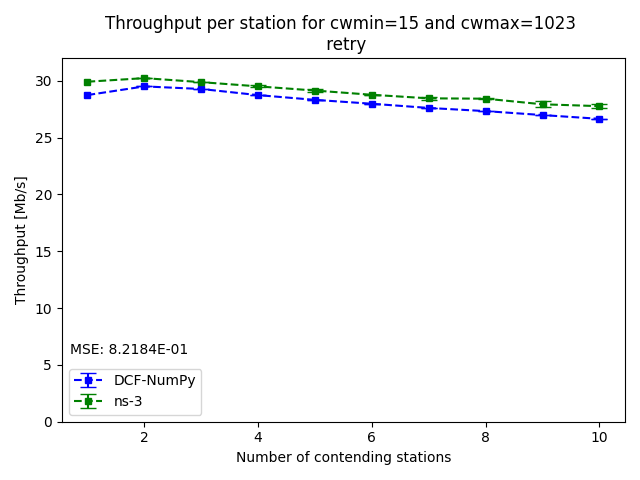
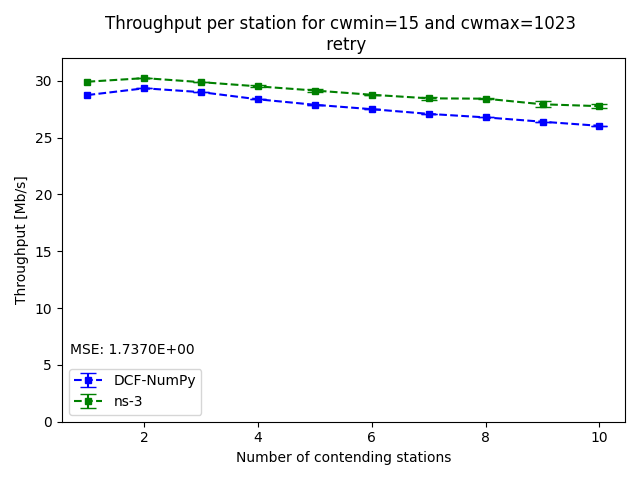
adds sck timeout to tx_time calculation

Changed region(s): [[0.1875, 0.1562, 0.9688, 0.2812], [0.1562, 0.7188, 0.3125, 0.75], [0.1562, 0.1875, 0.1875, 0.2188]]

diff --git a/simulation.py b/simulation.py
@@ -135,7 +135,10 @@ def transmission_time(backoff_slots, data_rate, control_rate, mac_payload, colli
     # adding sifs and ack duration only if the transmission was successful
     if not collision:
         tx_time += sifs + ack_duration  # s
-
+    # adding ack timeout (2*sifs) in case of collision
+    else:
+        tx_time += 2*sifs # s
+        
     tx_time_slots = math.ceil(tx_time/slot_duration) + backoff_slots  # slots
 
     return tx_time_slots
